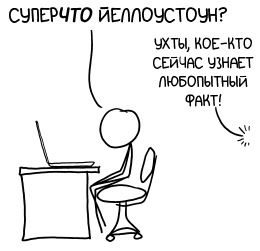
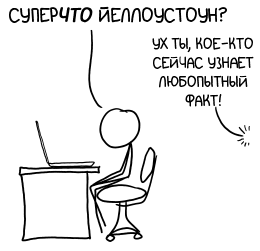
Some fixes in 'Digging downward'

Changed region(s): [[0.5846, 0.1394, 0.9846, 0.2231]]

diff --git a/content/what-if/135-digging-downward.md b/content/what-if/135-digging-downward.md
@@ -29,7 +29,7 @@ Image: https://chtoes.li/uploads/135-digging-downward/front.png
 
 ![](/uploads/135-digging-downward/what_ru.png "Я так скажу: не стоит ожидать, что его извержение будет в обозримом будущем. Хотя многих и забавляет думать обратное.")
 
-Согласно карт ЮМУ вы быстро достигнете температур, слишком высоких для незащищенного человека, даже если будете копать не в Йеллоустоне. Как правило, почва нагревается в среднем на 35&nbsp;°C за километр. Так что при скорости 30&nbsp;см/с смертельная температура будет от вас в часе или двух.
+Согласно картам ЮМУ вы быстро достигнете температур, слишком высоких для незащищенного человека, даже если будете копать не в Йеллоустоне. Как правило, почва нагревается в среднем на 35&nbsp;°C за километр. Так что при скорости 30&nbsp;см/с смертельная температура будет от вас в часе или двух.
 
 Но постойте.
 
